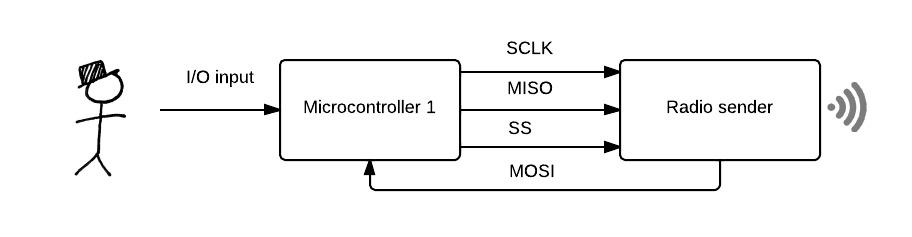
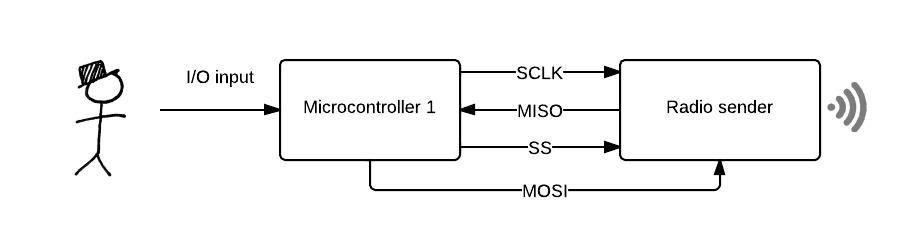
Hw

diff --git a/Dokumentation/Design/Hardware.tex b/Dokumentation/Design/Hardware.tex
@@ -32,18 +32,76 @@ De interne og eksterne grænseflader.
 
 På Figur \ref{fig: SenderInterface} ses et blokdiagram af senderen med alle grænseflader.
 
+De eksterne grænseflader, er der hvor brugeren skal lave sit indput. Det vil sige der er her han laver et programvalg som bliver sendt videre til dronen.
+
+De interne grænseflader
+Kommunikationen mellem microcontroller 1 og radiosenderen, forgår via SPI protokollen. 
+
+Radio interfacet er beskrevet i sektionen Radio.
+
+
 
 \subsection{Modtager}
 
-\itoc
+\begin{figure}[H]
+\centering
+\includegraphics[scale=0.5]{ModtagerInterface}
+\caption{Grænseflader for modtager}
+\label{fig: ModtagerInterface}
+\end{figure}
+På Figur \ref{fig: ModtagerInterface} ses et blokdiagram af modtageren med alle grænseflader.
+Radioen modtager en pakke fra senderen. Når hele pakken er modtaget laves et interrupt på microcontroller 2.
 
+Microcontroller 2, henter hele pakken fra radioen og sætter den i modtage mode igen. 
+
+Microcontroller 2, tager så de modtaget data fra radioen og putter dem i en output buffer til \itoc.
+
+Radio interfacet er beskrevet i næste sekstion.
+
+
+\subsection{Radio}
+Opsætningen på radioen vi køre med er som følger:
+
+433MHz
+2.5 kbps
+CRC af dataoverførslen
+Benytter kanal 0
+
+Pakken der bliver sendt frem og tilbage ser ud som følger:
+\begin{figure}[H]
+\centering
+\includegraphics[scale=0.8]{Pakke}
+\caption{Pakke opbygningen}
+\label{fig: Pakke}
+\end{figure}
 \section{Design}
+
+Hastigheden SPI interfacet køre med er:
+$ 8000000Hz/16 = 500000Hz $
+
+\itoc hastighed
+
+Tach Switch som bruger indput
+
+Radiosender sender med en frekvens 
 
 \subsection{Strøm indput}
 
+Hele enheden køre på 3.3 V.
+Der er ikke lavet noget beskyttelse på inputstrømmen så det skal være 3.3V dc.
+
 \section{PCB layout}
 
+\begin{figure}[H]
+\centering
+\includegraphics[scale=0.5]{Print3D}
+\caption{Det færdige print}
+\label{fig: Print3D}
+\end{figure}
 
+Layouted er forsøgt holdt simpelt. knapperne til brugeren er placeret så de minder om pilene på et tastatur, dog med op/ned funktioner og autoland.
+Printet er aflangt så det er til at holde som en fjernbetjening og derved kan styres med en hånd.
+Radioen er placeret forrest på fjernbetjeningen, for at brugeren dæmper/skærmer mindst muligt for signalet.  
 
 Opdeling i blokke.
 Interface mellem blokkene, f.eks.:

diff --git a/Dokumentation/Design/1-Hardware.tex b/Dokumentation/Design/1-Hardware.tex
@@ -1,0 +1,59 @@
+\documentclass[Main]{subfiles}
+\begin{document}
+
+\chapter{Design}
+
+\section{System oversigt}
+
+Til styring af drone, skal der laves en sender og modtager.
+
+\begin{figure}[H]
+\centering
+\includegraphics[scale=0.6]{Blokdiagram}
+\caption{Skitse af hardware}
+\end{figure}
+
+\code{Senderen} er den brugeren laver sit indput på. 
+\\ \code{Modtageren} er den enhed der er sat på dronen, som skal modtage signalet fra senderen.\\
+Det vil sige der skulle laves to enheder. Begge skulle gøre brug af chippen cc1101 fra texas instruments. Og microcontrolleren atmega8 fra Atmel Corporation.
+\code{Senderen} skal også have knapper så brugeren kan lave sit indput.
+
+\section{Grænseflader}
+
+De interne og eksterne grænseflader. 
+
+\subsection{Sender}
+\begin{figure}[H]
+\centering
+\includegraphics[scale=0.5]{SenderInterface}
+\caption{Grænseflader for sender}
+\label{fig: SenderInterface}
+\end{figure}
+
+På Figur \ref{fig: SenderInterface} ses et blokdiagram af senderen med alle grænseflader. Det er egentlig simpelt, det er en microcontroller der kommunikere med en radio sender. 
+
+
+\subsection{Modtager}
+
+\itoc
+
+\section{Design}
+
+\subsection{Strøm indput}
+
+\section{PCB layout}
+
+
+
+Opdeling i blokke.
+Interface mellem blokkene, f.eks.:
+Realisering af den enkelte blok
+· Enhedstest af den enkelte blok
+
+Analoge/digitale niveauer
+o Impedanser,
+o Protokol (f.eks. mellem PC og mikroprocessor)
+
+
+
+\end{document}
